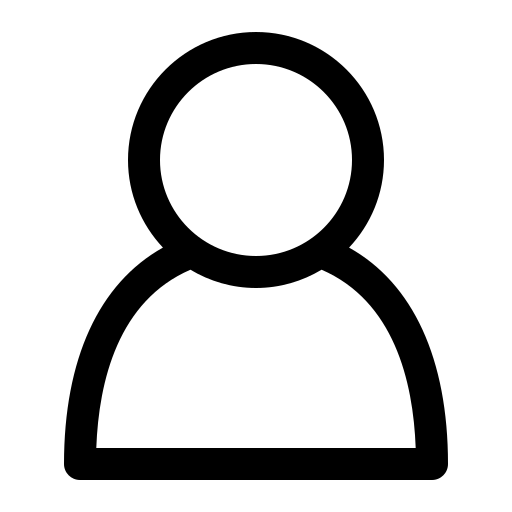
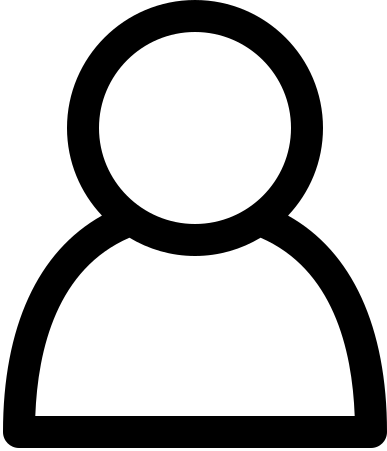
SignUp responsive completed

diff --git a/src/Modules/Auth/components/SignUpForm.jsx b/src/Modules/Auth/components/SignUpForm.jsx
@@ -1,19 +1,19 @@
 import React from "react";
-import InputForm from "../../../UI/InputForm";
 import PForm from "../../../UI/PForm";
-import Button from "../../../UI/Button";
+import InputForm from "../../../UI/InputForm";
 import CheckBox from "../../../UI/CheckBoxForm";
+import Button from "../../../UI/Button";
 import AForm from "../../../UI/AForm";
 
 function UserIcon(){
     return (
-        <img src="../public/images/UserIcon3.png" alt="" />
+        <img src="../public/images/UserAccount.png" alt="" />
     )
 }
 
-const LoginForm = () => {
+const SignUpForm = () => {
 
-    return (
+    return(
         <form className="w-full bg-white
             xs:py-10 xs:m-2.5 xs:rounded-lg
             2xs:py-10 2xs:m-2.5 2xs:rounded-lg
@@ -27,9 +27,9 @@ const LoginForm = () => {
             3md:py-15 3md:mx-130 3md:rounded-lg">
             <section className="w-full flex justify-center items-center flex-col px-10">
 
-                <figure className="p-1
+                <figure className="
                     xs:h-auto xs:w-30
-                    2xs:h-auto 2xs:w-30
+                    2xs:h-auto 2xs:w-35
 
                     sm:h-auto sm:w-30
                     2sm:h-auto 2sm:w-35
@@ -38,20 +38,22 @@ const LoginForm = () => {
                     md:h-auto md:w-30
                     2md:h-auto 2md:w-35
                     3md:h-auto 3md:w-35">
-                    <UserIcon/>
+                    <UserIcon />
                 </figure>
 
-                <PForm label="Log" label2=" In"/>
+                <PForm label="Sign" label2=" Up"/>
+                <InputForm label="" placeholder="Firstname" type="text"/>
+                <InputForm label="" placeholder="Lastname" type="text"/>
                 <InputForm label="" placeholder="Email" type="email"/>
                 <InputForm label="" placeholder="Password" type="password"/>
                 <CheckBox />
 
-                <Button label="Login"/>
+                <Button label="Create Account"/>
 
-                <AForm label="You don't have an Account?" />
+                <AForm label="I have an Account" />
             </section>
         </form>
     );
 };
 
-export default LoginForm;
+export default SignUpForm;

diff --git a/src/routes/Routes.jsx b/src/routes/Routes.jsx
@@ -1,12 +1,14 @@
 import React from "react";
 import { BrowserRouter as Router, Routes, Route } from "react-router-dom";
 import Login from "../Modules/Auth/page/Login.jsx";
+import SignUp from "../Modules/Auth/page/SignUp.jsx";
 
 function RouteApp(){
     return (
         <Router>
             <Routes>
                 <Route path="/login" element={<Login />} />
+                <Route path="/signup" element={<SignUp />} />
             </Routes>
         </Router>
     );

diff --git a/src/Modules/Auth/page/Login.jsx b/src/Modules/Auth/page/Login.jsx
@@ -1,11 +1,12 @@
 import React from "react";
-import LoginForm from "../components/LoginForm";
+import LoginForm from "../Components/LoginForm";
 
 const Login = () => {
 
     return (
         <main className="bg-primary min-h-screen px-5 py-5 flex justify-center items-center
             ">
+                
             <LoginForm />
         </main>
     );

diff --git a/src/Modules/Auth/page/SignUp.jsx b/src/Modules/Auth/page/SignUp.jsx
@@ -1,0 +1,15 @@
+import React from "react";
+import SignUpForm from "../components/SignUpForm";
+
+const SignUp = () => {
+    return (
+
+        <main className="bg-primary min-h-screen px-5 py-5 flex justify-center items-center">
+                
+            <SignUpForm />
+        </main>
+
+    );
+};
+
+export default SignUp;

diff --git a/src/UI/Button.jsx b/src/UI/Button.jsx
@@ -20,9 +20,7 @@ export function Button({ label }) {
           3sm:py-2.5 3sm:text-xl
 
           md:py-2.5 md:text-xl
-          2md:py-1.5 2md:text-2xl
-          3md:py-1.5 3md:text-2xl
-          
+          2md:py-2 2md:text-2xl
           
           focus:bg-quinary cursor-pointer">
           {label}

diff --git a/src/main.jsx b/src/main.jsx
@@ -1,6 +1,6 @@
 import { StrictMode } from 'react'
 import { createRoot } from 'react-dom/client'
-import RouteApp from './Routes/routes.jsx'
+import RouteApp from './routes/Routes.jsx'
 import './styles/index.css'
 
 

diff --git a/src/UI/CheckBoxForm.jsx b/src/UI/CheckBoxForm.jsx
@@ -1,4 +1,4 @@
-export function CheckBox(){
+export function CheckBox({}){
     return (
         <label className="w-full mt-2.5 flex items-center align-middle
             xs:mt-2.5
